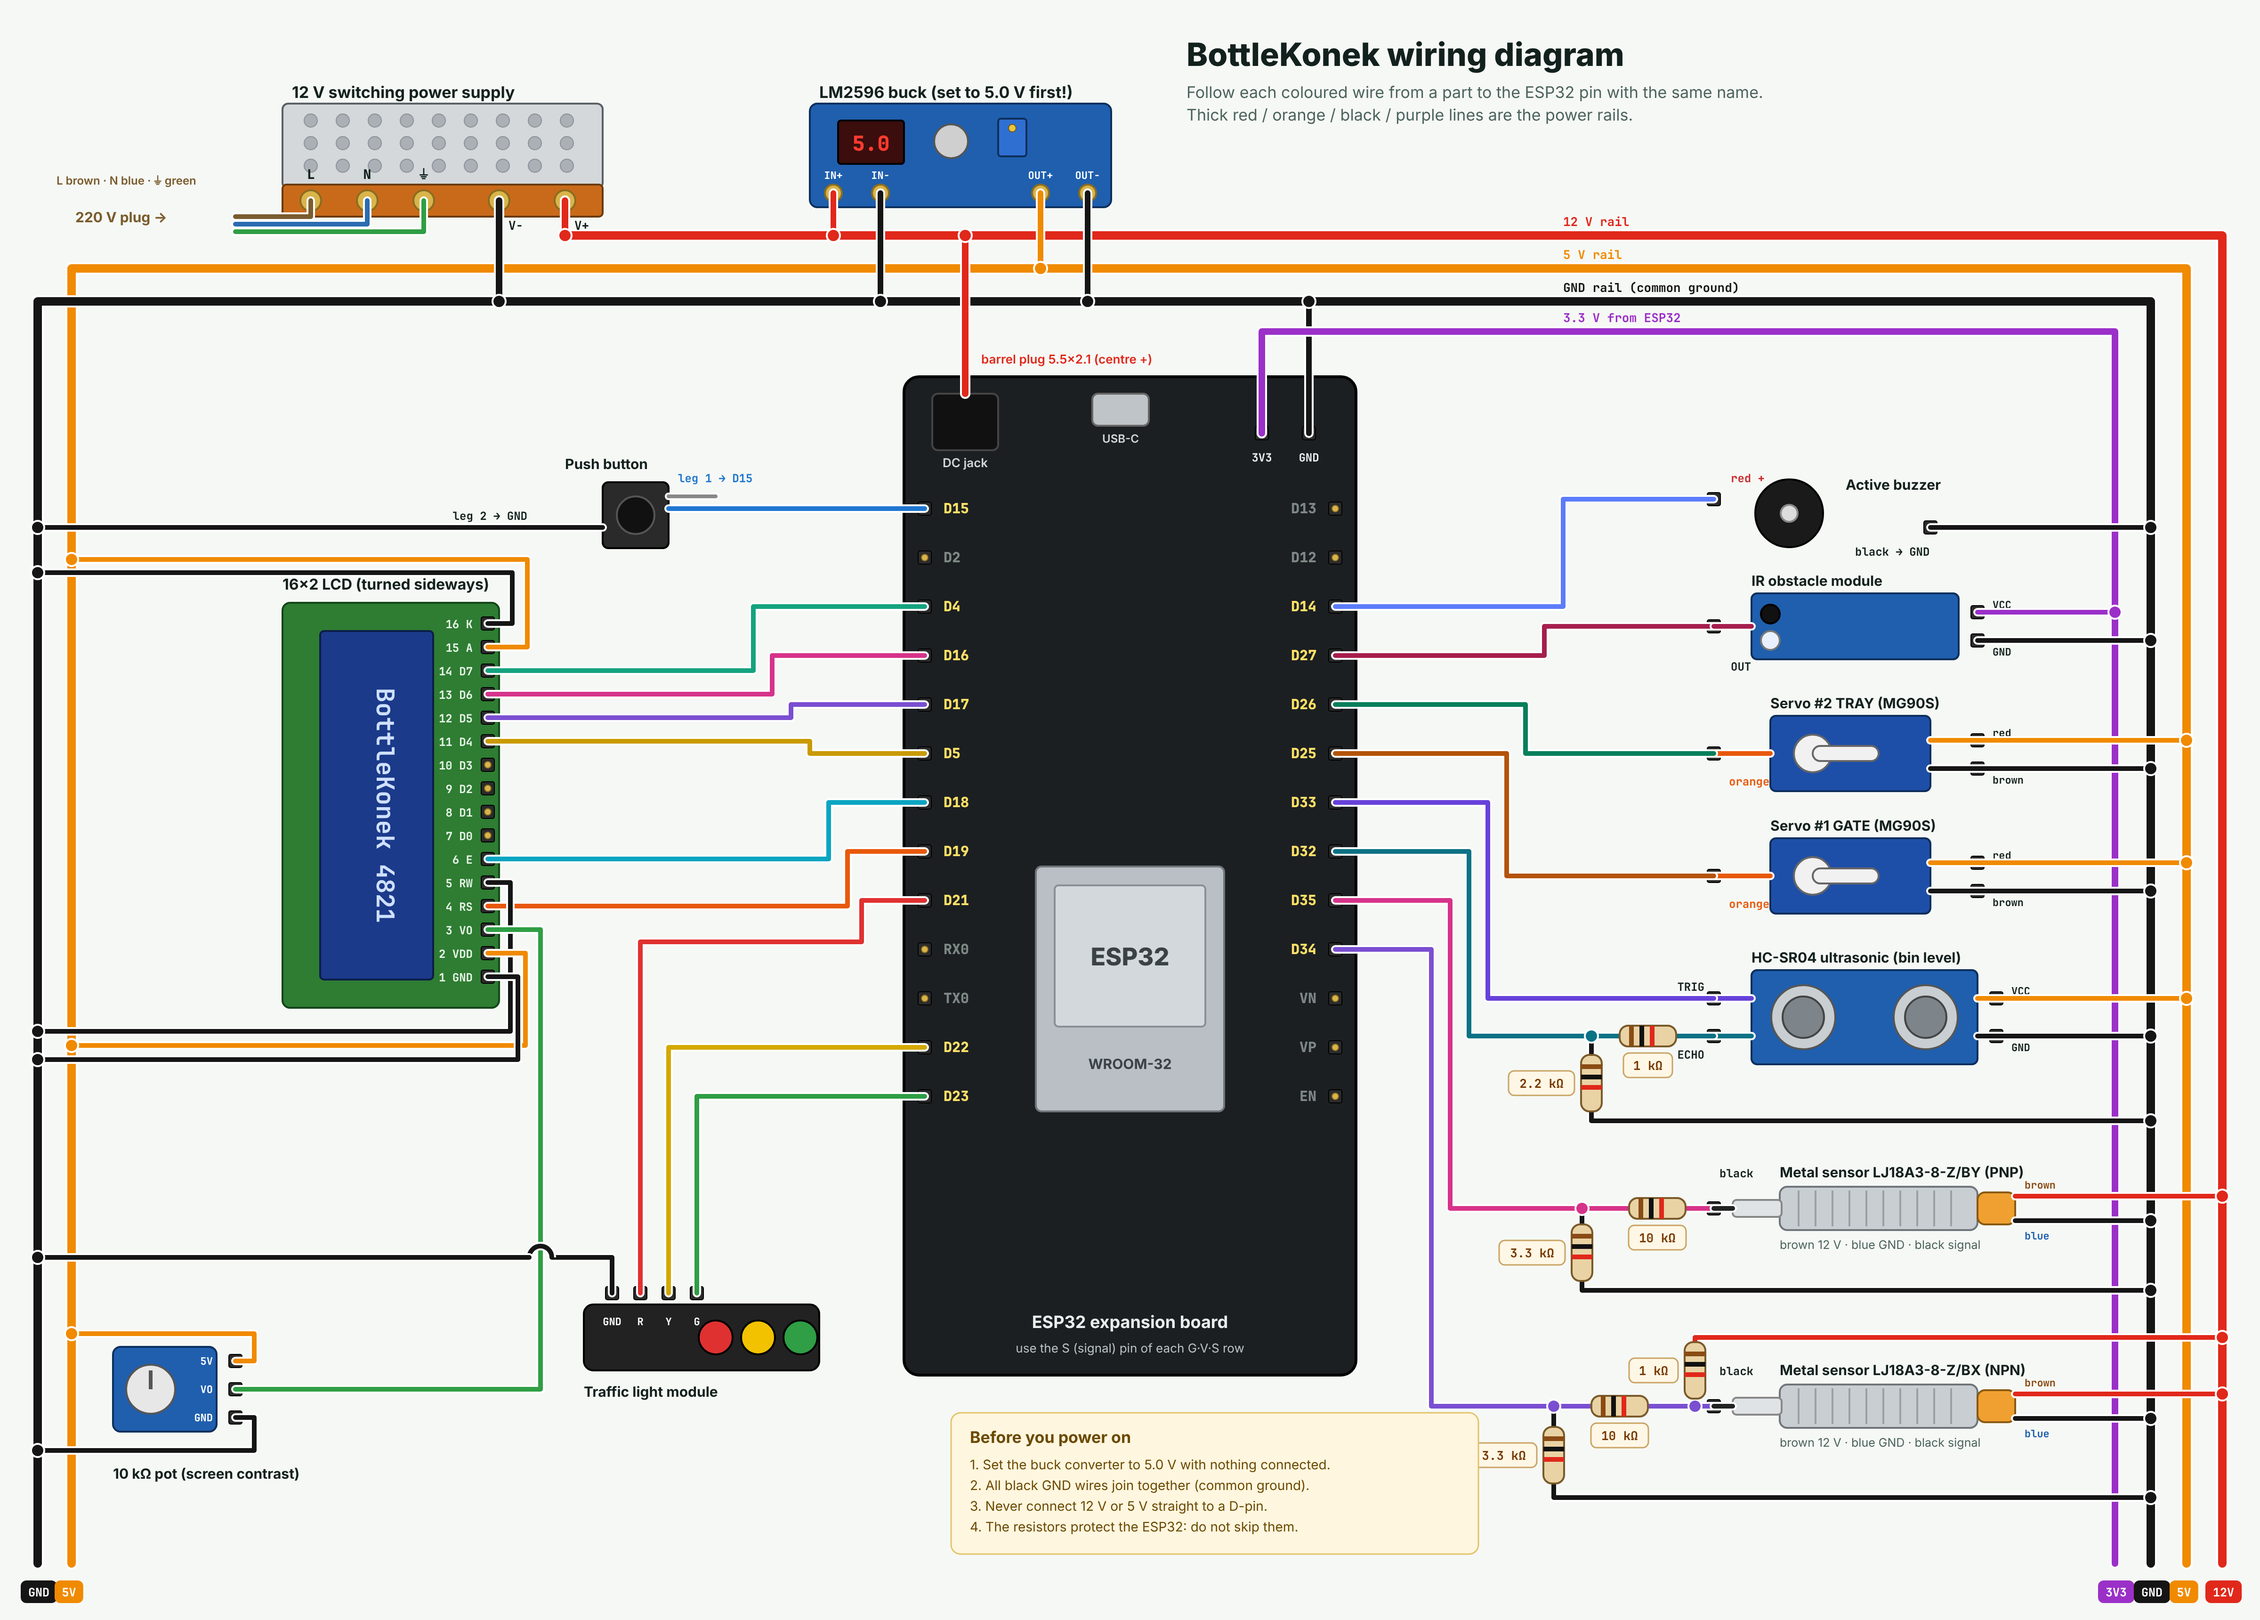
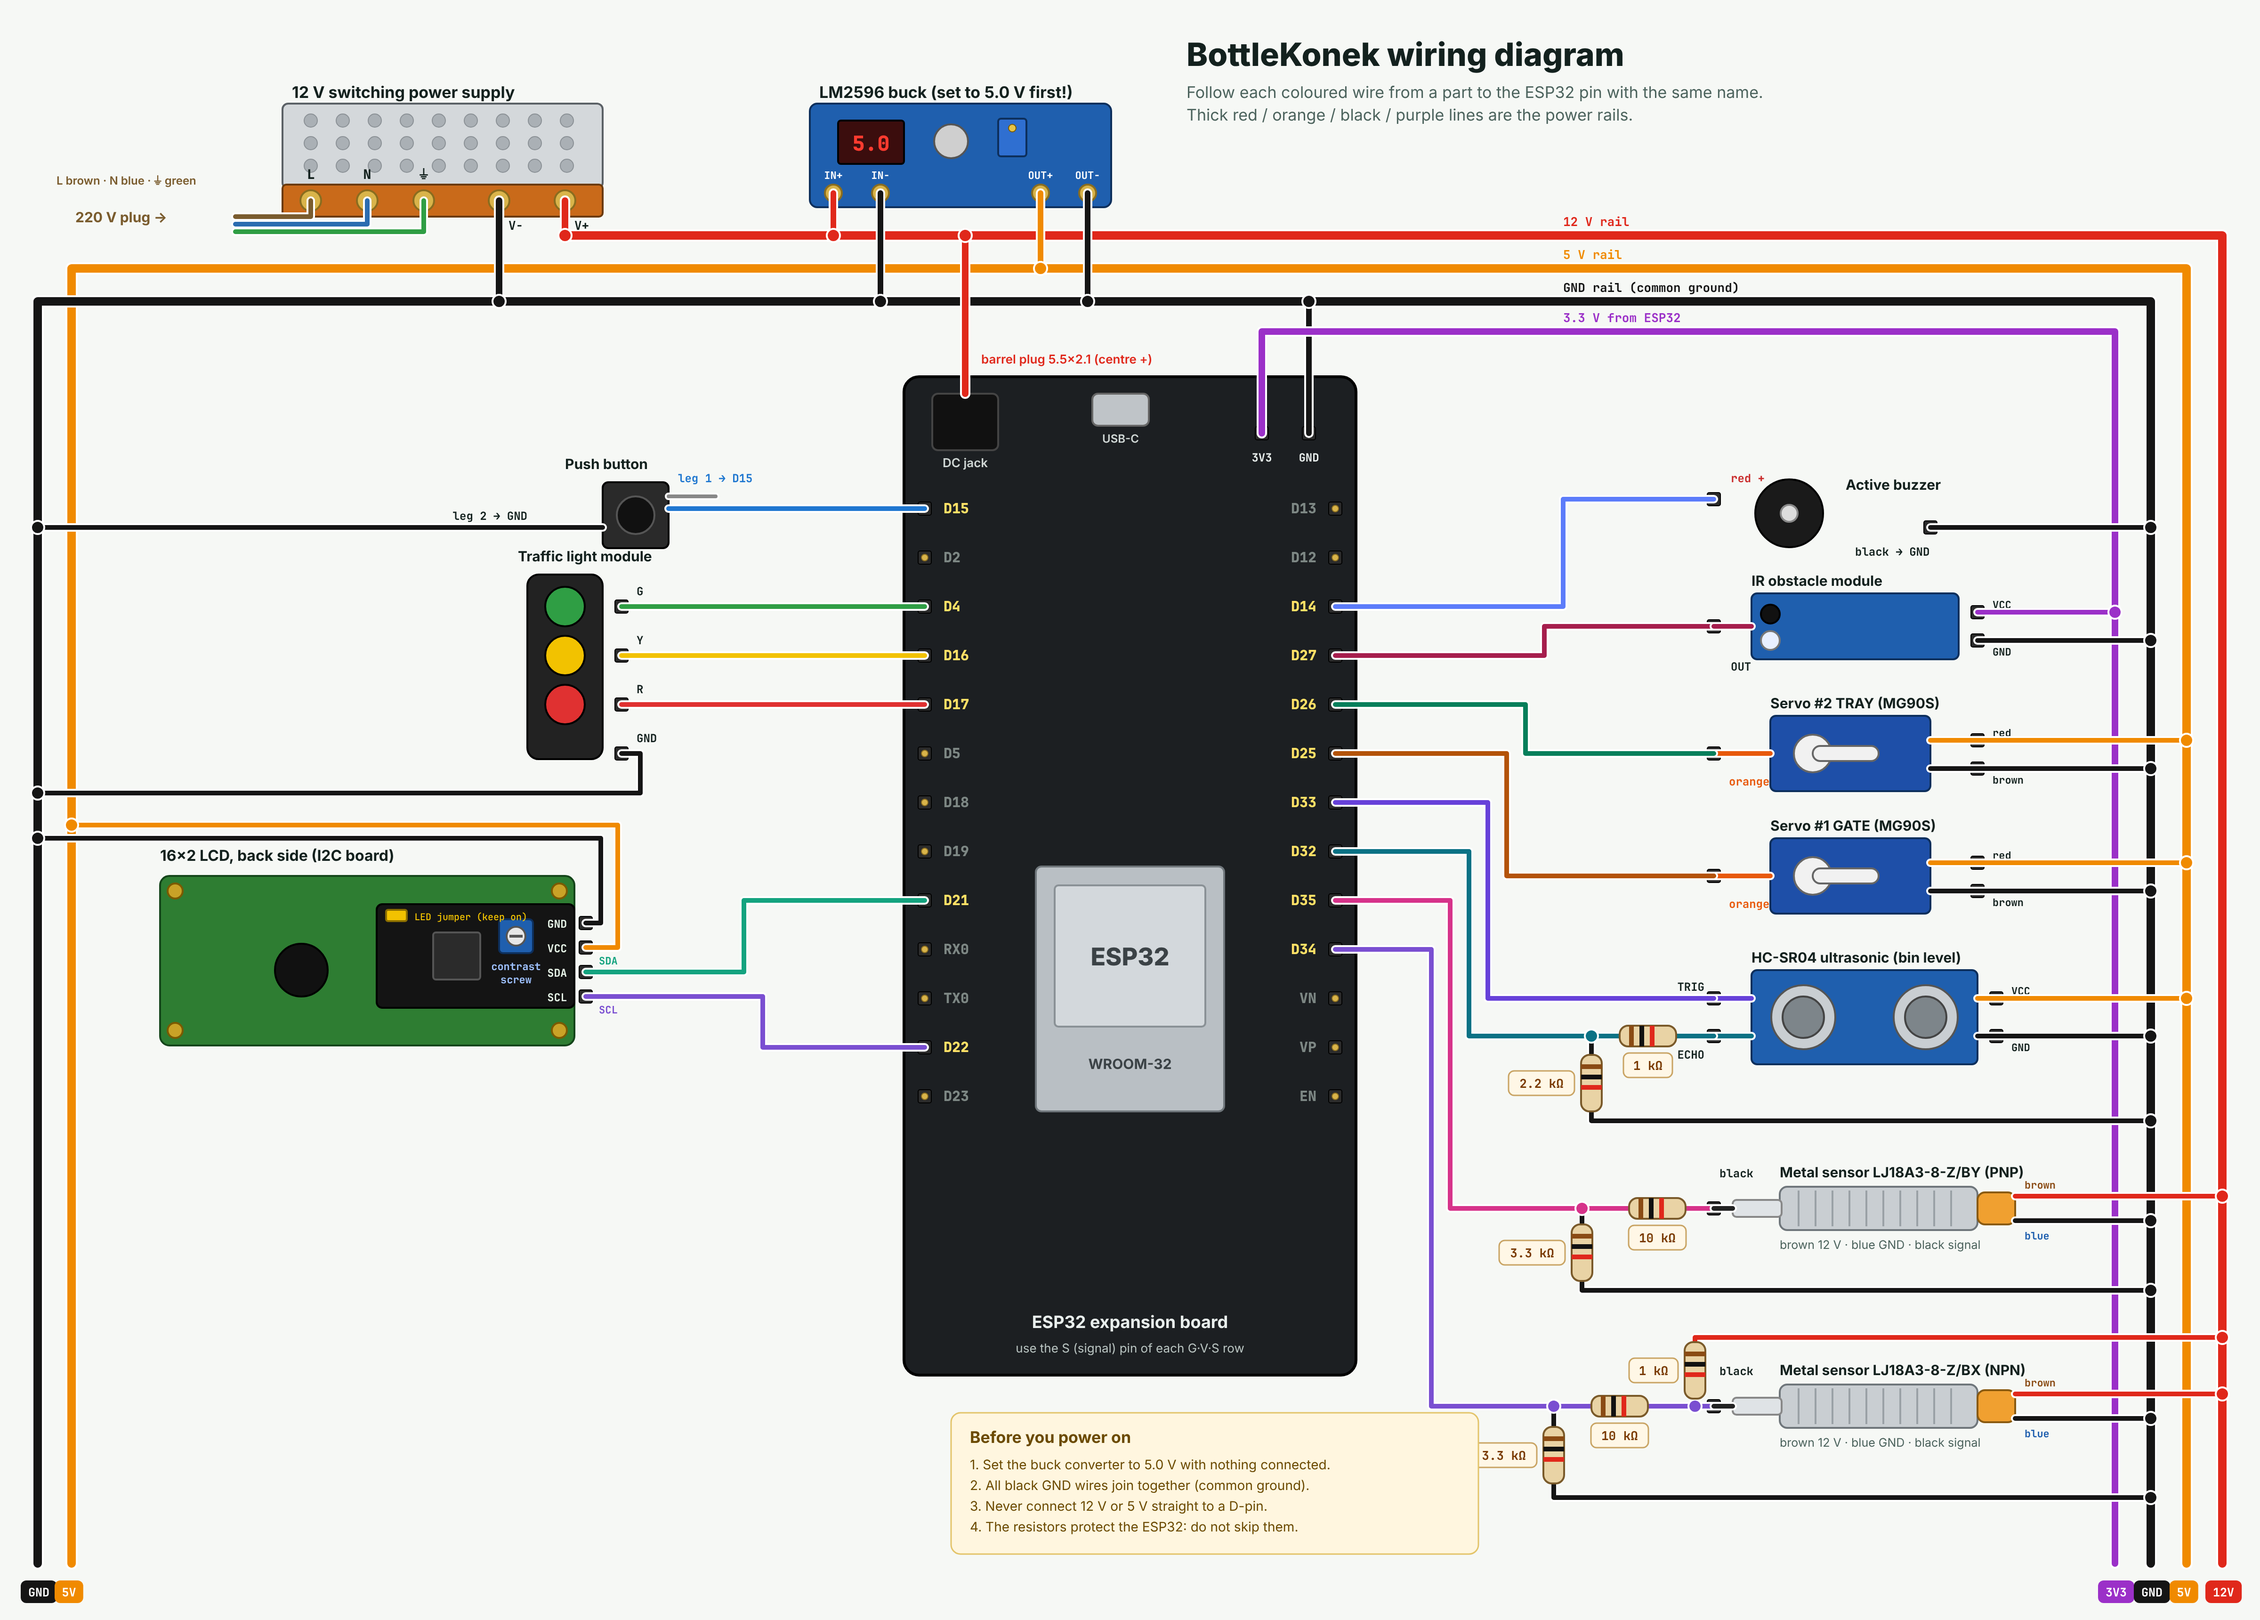
Use the LCD's I2C board (SDA D21, SCL D22), drop the contrast pot, move traffic light to D4/D16/D17
Claude-Session: https://claude.ai/code/session_01FLWhppZiZoj8Tbu8EAL1cu

diff --git a/firmware/make_wiring_png.py b/firmware/make_wiring_png.py
@@ -159,7 +159,7 @@ def ry(i):
     return ROW0 + i * PITCH
 
 
-used_l = {'D15', 'D4', 'D16', 'D17', 'D5', 'D18', 'D19', 'D21', 'D22', 'D23'}
+used_l = {'D15', 'D4', 'D16', 'D17', 'D21', 'D22'}
 used_r = {'D14', 'D27', 'D26', 'D25', 'D33', 'D32', 'D35', 'D34'}
 for i, n in enumerate(LROWS):
     pinhead(LX, ry(i))
@@ -187,62 +187,48 @@ to_left_pin('D15', [(710, 540), (900, 540)], SIGCOL[0])
 wire([(640, 560), (XG_L, 560)], C['gnd'], 5); dot(XG_L, 560, C['gnd'])
 M(720, 512, 'leg 1 → D15', 12, 700, 'start', SIGCOL[0]); M(560, 552, 'leg 2 → GND', 12, 700, 'end')
 
-# ---------------------------------------------------------------- LEFT: LCD 16x2, standing on its side, pins on right edge
-LCDX, LCDY = 300, 640
-R(LCDX, LCDY, 230, 430, '#2e7d32', '#14451a', 8)
-R(LCDX + 40, LCDY + 30, 120, 370, '#1b3a8a', '#0c1d4a', 4)
-o.append(f'<text x="{LCDX+100}" y="{LCDY+215}" font-size="26" font-weight="700" fill="#cfe0ff" font-family="JetBrains Mono,monospace" text-anchor="middle" transform="rotate(90 {LCDX+100} {LCDY+215})">BottleKonek 4821</text>')
-T(LCDX, LCDY - 14, '16×2 LCD (turned sideways)', 16, 700)
-LPINS = ['K', 'A', 'D7', 'D6', 'D5', 'D4', 'D3', 'D2', 'D1', 'D0', 'E', 'RW', 'RS', 'VO', 'VDD', 'GND']
-LPN = [16, 15, 14, 13, 12, 11, 10, 9, 8, 7, 6, 5, 4, 3, 2, 1]
-PX = LCDX + 230
-py = {}
-for i, n in enumerate(LPINS):
-    y = LCDY + 22 + i * 25
-    py[n] = y
-    pinhead(PX - 12, y)
-    M(PX - 28, y + 5, f'{LPN[i]} {n}', 12, 700, 'end', '#e8f5e9')
-# signal wires
-for k, (n, pin, x) in enumerate([('D7', 'D4', 800), ('D6', 'D16', 820), ('D5', 'D17', 840), ('D4', 'D5', 860),
-                                 ('E', 'D18', 880), ('RS', 'D19', 900)]):
-    to_left_pin(pin, [(PX - 12, py[n]), (x, py[n])], SIGCOL[1 + k])
-# power from LCD: K -> GND (over the top), A -> 5V
-wire([(PX - 12, py['K']), (PX + 14, py['K']), (PX + 14, LCDY - 32), (XG_L, LCDY - 32)], C['gnd'], 5); dot(XG_L, LCDY - 32, C['gnd'])
-wire([(PX - 12, py['A']), (PX + 30, py['A']), (PX + 30, LCDY - 46), (X5_L, LCDY - 46)], C['v5'], 5); dot(X5_L, LCDY - 46, C['v5'])
-# bottom pins
-wire([(PX - 12, py['RW']), (PX + 12, py['RW']), (PX + 12, LCDY + 455), (XG_L, LCDY + 455)], C['gnd'], 5); dot(XG_L, LCDY + 455, C['gnd'])
-wire([(PX - 12, py['VDD']), (PX + 28, py['VDD']), (PX + 28, LCDY + 470), (X5_L, LCDY + 470)], C['v5'], 5); dot(X5_L, LCDY + 470, C['v5'])
-wire([(PX - 12, py['GND']), (PX + 20, py['GND']), (PX + 20, LCDY + 485), (XG_L, LCDY + 485)], C['gnd'], 5); dot(XG_L, LCDY + 485, C['gnd'])
-# potentiometer (bottom-left, pins on its right side)
-POTX, POTY = 120, 1430
-R(POTX, POTY, 110, 90, '#1f5fae', '#0d2f5c', 8); Cc(POTX + 40, POTY + 45, 26, '#e7e7e7', '#555'); o.append(f'<line x1="{POTX+40}" y1="{POTY+25}" x2="{POTX+40}" y2="{POTY+45}" stroke="#555" stroke-width="4"/>')
-T(POTX, POTY + 140, '10 kΩ pot (screen contrast)', 15, 700)
-for i, n in enumerate(['5V', 'VO', 'GND']):
-    pinhead(POTX + 130, POTY + 15 + i * 30)
-    M(POTX + 106, POTY + 19 + i * 30, n, 11, 700, 'end', '#ffffff')
-wire([(PX - 12, py['VO']), (PX + 44, py['VO']), (PX + 44, POTY + 45), (POTX + 130, POTY + 45)], SIGCOL[7])
-wire([(POTX + 130, POTY + 15), (POTX + 150, POTY + 15), (POTX + 150, POTY - 14), (X5_L, POTY - 14)], C['v5'], 5); dot(X5_L, POTY - 14, C['v5'])
-wire([(POTX + 130, POTY + 75), (POTX + 150, POTY + 75), (POTX + 150, POTY + 110), (XG_L, POTY + 110)], C['gnd'], 5); dot(XG_L, POTY + 110, C['gnd'])
+# ---------------------------------------------------------------- LEFT: traffic light (standing, pins on right)
+TLX, TLY = 560, 610
+R(TLX, TLY, 80, 196, '#222', '#000', 12)
+tl = [('G', 'D4', '#2f9e44'), ('Y', 'D16', '#f2c200'), ('R', 'D17', '#e03131')]
+for n, pin, col in tl:
+    y = ry(LROWS.index(pin))
+    Cc(TLX + 40, y, 21, col, '#000')
+    pinhead(TLX + 100, y); M(TLX + 116, y - 12, n, 12, 700)
+    to_left_pin(pin, [(TLX + 100, y), (TLX + 100, y)], col)
+gnd_y = ry(LROWS.index('D17')) + 52
+pinhead(TLX + 100, gnd_y); M(TLX + 116, gnd_y - 12, 'GND', 12, 700)
+wire([(TLX + 100, gnd_y), (TLX + 120, gnd_y), (TLX + 120, gnd_y + 42), (XG_L, gnd_y + 42)], C['gnd'], 5); dot(XG_L, gnd_y + 42, C['gnd'])
+T(TLX - 10, TLY - 14, 'Traffic light module', 15, 700)
 
-# ---------------------------------------------------------------- LEFT: traffic light (lying down, pins on top)
-TLX, TLY = 620, 1385
-R(TLX, TLY, 250, 70, '#222', '#000', 10)
-for i, c in enumerate(['#e03131', '#f2c200', '#2f9e44']):
-    Cc(TLX + 140 + i * 45, TLY + 35, 18, c, '#000')
-T(TLX, TLY + 98, 'Traffic light module', 15, 700)
-tx = {'GND': 650, 'R': 680, 'Y': 710, 'G': 740}
-for n, x in tx.items():
-    pinhead(x, TLY - 12); M(x, TLY + 22, n, 11, 700, 'middle', '#ffffff')
-PY0 = TLY - 12
-wire([(tx['R'], PY0), (tx['R'], 1000), (915, 1000), (915, ry(LROWS.index('D21'))), (LX, ry(LROWS.index('D21')))], '#e03131')
-wire([(tx['Y'], PY0), (tx['Y'], ry(LROWS.index('D22'))), (LX, ry(LROWS.index('D22')))], '#d4a800')
-wire([(tx['G'], PY0), (tx['G'], ry(LROWS.index('D23'))), (LX, ry(LROWS.index('D23')))], '#2f9e44')
-# GND: hop over the VO wire
-gy = TLY - 50
-wire([(tx['GND'], PY0), (tx['GND'], gy), (PX + 56, gy)], C['gnd'], 5)
-o.append(f'<path d="M {PX+56} {gy} A 12 12 0 0 0 {PX+32} {gy}" fill="none" stroke="#ffffff" stroke-width="9"/>')
-o.append(f'<path d="M {PX+56} {gy} A 12 12 0 0 0 {PX+32} {gy}" fill="none" stroke="{C['gnd']}" stroke-width="5"/>')
-wire([(PX + 32, gy), (XG_L, gy)], C['gnd'], 5); dot(XG_L, gy, C['gnd'])
+# ---------------------------------------------------------------- LEFT: 16x2 LCD with I2C board (back view)
+LCDX, LCDY = 170, 930
+R(LCDX, LCDY, 440, 180, '#2e7d32', '#14451a', 10)
+for x, y in [(LCDX + 16, LCDY + 16), (LCDX + 424, LCDY + 16), (LCDX + 16, LCDY + 164), (LCDX + 424, LCDY + 164)]:
+    Cc(x, y, 8, '#c9a227', '#7a5a00', 2)
+Cc(LCDX + 150, LCDY + 100, 28, '#111', '#000')
+# the black I2C board on the back
+R(LCDX + 230, LCDY + 30, 210, 110, '#141414', '#000', 6)
+R(LCDX + 290, LCDY + 60, 50, 50, '#2b2b2b', '#555', 3)
+R(LCDX + 360, LCDY + 46, 36, 36, '#1f5fae', '#0d2f5c', 4); Cc(LCDX + 378, LCDY + 64, 10, '#e7e7e7', '#555')
+o.append(f'<line x1="{LCDX+371}" y1="{LCDY+64}" x2="{LCDX+385}" y2="{LCDY+64}" stroke="#555" stroke-width="3"/>')
+M(LCDX + 378, LCDY + 100, 'contrast', 11, 700, 'middle', '#9fc2ff')
+M(LCDX + 378, LCDY + 114, 'screw', 11, 700, 'middle', '#9fc2ff')
+R(LCDX + 240, LCDY + 36, 22, 12, '#f2c200', '#8a6d00', 2)
+M(LCDX + 270, LCDY + 47, 'LED jumper (keep on)', 10, 600, 'start', '#f2c200')
+T(LCDX, LCDY - 16, '16×2 LCD, back side (I2C board)', 16, 700)
+lp = {}
+for i, n in enumerate(['GND', 'VCC', 'SDA', 'SCL']):
+    y = LCDY + 50 + i * 26
+    lp[n] = y
+    pinhead(LCDX + 452, y); M(LCDX + 432, y + 5, n, 11.5, 700, 'end', '#e8f5e9')
+PX = LCDX + 452
+to_left_pin('D21', [(PX, lp['SDA']), (790, lp['SDA'])], SIGCOL[1])
+to_left_pin('D22', [(PX, lp['SCL']), (810, lp['SCL'])], SIGCOL[3])
+M(PX + 14, lp['SDA'] - 8, 'SDA', 11, 700, 'start', SIGCOL[1])
+M(PX + 14, lp['SCL'] + 18, 'SCL', 11, 700, 'start', SIGCOL[3])
+wire([(PX, lp['GND']), (PX + 16, lp['GND']), (PX + 16, LCDY - 40), (XG_L, LCDY - 40)], C['gnd'], 5); dot(XG_L, LCDY - 40, C['gnd'])
+wire([(PX, lp['VCC']), (PX + 34, lp['VCC']), (PX + 34, LCDY - 54), (X5_L, LCDY - 54)], C['v5'], 5); dot(X5_L, LCDY - 54, C['v5'])
 
 # ---------------------------------------------------------------- RIGHT side parts
 CX = 1760            # left edge of right-side parts

diff --git a/firmware/BottleKonek/config.h b/firmware/BottleKonek/config.h
@@ -28,14 +28,10 @@
 #define DEFAULT_BIN_FULL_CM     8     // ultrasonic to top of bottles when full
 
 // ---------- 6. PINS (match the wiring diagram) ------------------------------
-// 16x2 LCD, wired directly (option A). RW pin goes to GND.
-// Pins follow the wiring diagram (wiring.png) so the wires do not cross.
-#define PIN_LCD_RS   19
-#define PIN_LCD_E    18
-#define PIN_LCD_D4    5
-#define PIN_LCD_D5   17
-#define PIN_LCD_D6   16
-#define PIN_LCD_D7    4
+// 16x2 LCD with I2C board on its back (GND, VCC, SDA, SCL).
+// Its address (0x27 or 0x3F) is found automatically at start-up.
+#define PIN_I2C_SDA  21
+#define PIN_I2C_SCL  22
 
 #define PIN_SERVO_GATE  25    // MG90S #1: blocks the chute while checking
 #define PIN_SERVO_TRAY  26    // MG90S #2: tilts item to bin or back to user
@@ -46,9 +42,9 @@
 #define PIN_US_TRIG     33    // HC-SR04 TRIG
 #define PIN_US_ECHO     32    // HC-SR04 ECHO through 1k/2.2k divider
 
-#define PIN_LED_RED     21    // traffic light module R
-#define PIN_LED_YELLOW  22    // traffic light module Y
-#define PIN_LED_GREEN   23    // traffic light module G
+#define PIN_LED_RED     17    // traffic light module R
+#define PIN_LED_YELLOW  16    // traffic light module Y
+#define PIN_LED_GREEN    4    // traffic light module G
 #define PIN_BUZZER      14    // active buzzer + (black wire to GND)
 #define PIN_BUTTON      15    // push button to GND: ends a drop session
 

diff --git a/firmware/README.md b/firmware/README.md
@@ -28,7 +28,8 @@ that still have minutes. It also runs the bottle machine.
    `https://espressif.github.io/arduino-esp32/package_esp32_index.json`
 3. **Tools → Board → Boards Manager**, search **esp32**, install
    **esp32 by Espressif Systems, version 3.x** (3.0.0 or newer is required).
-4. **Library Manager**: install **LiquidCrystal** (by Arduino). Nothing else is
+4. **Library Manager**: install **LiquidCrystal I2C** (by Frank de Brabander). If the IDE
+   warns it "may be incompatible" with ESP32, ignore that; it works. Nothing else is
    needed; WiFi, WebServer, LittleFS and Preferences come with the ESP32 board package.
 
 ## 2. Edit `config.h`
@@ -53,26 +54,27 @@ that still have minutes. It also runs the bottle machine.
 |---|---|---|---|
 | 12 V supply | V+ / V− | — | to buck IN, ESP32 DC jack, both metal sensors (brown/blue) |
 | LM2596 buck | OUT+ / OUT− | — | **set to 5.0 V first**; feeds servos, LCD, HC-SR04 |
-| LCD 16×2 | RS, E, D4, D5, D6, D7 | D19, D18, D5, D17, D16, D4 | VSS, RW, K → GND · VDD, A → 5 V · VO → pot middle |
+| LCD 16×2 (I2C board) | SDA / SCL | D21 / D22 | VCC → 5 V, GND → GND. Contrast = blue screw on the I2C board |
 | Servo gate (MG90S #1) | orange | D25 | red 5 V, brown GND |
 | Servo tray (MG90S #2) | orange | D26 | red 5 V, brown GND |
 | Metal sensor BX (NPN) | black | D34 | 1 kΩ pull-up to 12 V, then 10 kΩ to D34, 3.3 kΩ D34→GND |
 | Metal sensor BY (PNP) | black | D35 | 10 kΩ to D35, 3.3 kΩ D35→GND |
 | IR obstacle module | OUT | D27 | VCC 3V3 |
 | HC-SR04 | TRIG / ECHO | D33 / D32 | ECHO through 1 kΩ, 2.2 kΩ D32→GND · VCC 5 V |
-| Traffic light | R / Y / G | D21 / D22 / D23 | GND to GND |
+| Traffic light | G / Y / R | D4 / D16 / D17 | GND to GND |
 | Buzzer | red | D14 | black to GND |
 | Button | one leg | D15 | other leg to GND |
 
 All grounds join together: power supply V−, buck OUT−, ESP32 GND, sensors.
 
 **Extra parts to buy:** resistors 1 kΩ ×2, 2.2 kΩ ×1, 3.3 kΩ ×2, 10 kΩ ×2,
-one 10 kΩ potentiometer (or a 1 kΩ resistor for LCD contrast), one DC barrel
+one DC barrel
 plug 5.5×2.1 mm with wires for the ESP32 jack, and a perfboard or terminal blocks.
 
 ## 5. First test (before building the cabinet)
 
-1. Power on. LCD shows **BottleKonek 4821**, green LED on.
+1. Power on. LCD shows **BottleKonek 4821**, green LED on. Blank or only boxes on
+   the LCD: turn the blue screw on its I2C board. Serial Monitor tells you if the LCD was found.
 2. Serial Monitor shows `Main WiFi connected`.
 3. On a phone, join **BottleKonek WiFi**. The sign-in page should pop up by itself.
    If not, open any `http://` site or `http://192.168.4.1`.
